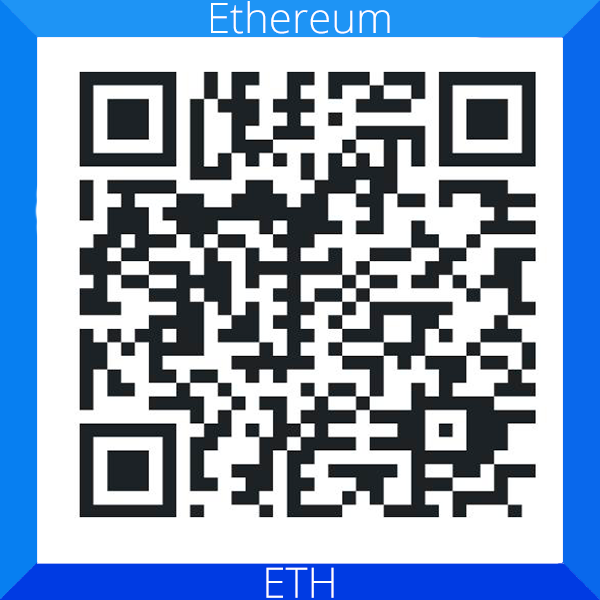
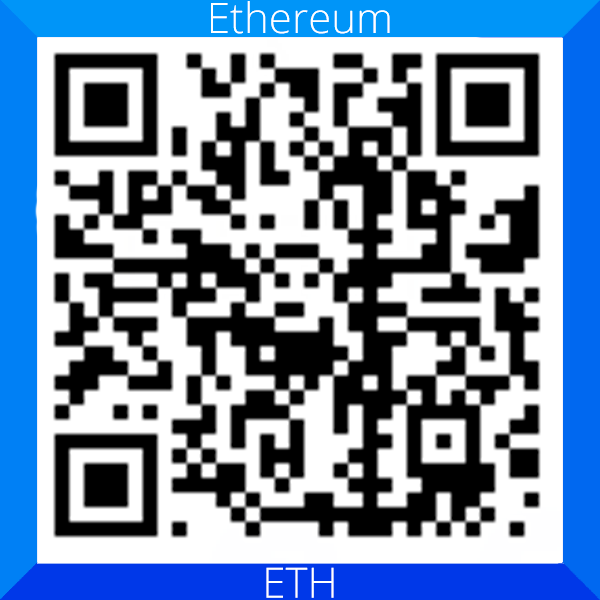
Add files via upload

diff --git a/ethereum/index.html b/ethereum/index.html
@@ -198,7 +198,7 @@
                                     <div class="icon-coin">
                                         <img src="fonts/fav.svg" alt>
                                     </div>
-                                    <p id="wallet">0x167C00b64Dd34e6dEdB0930f0d10f1Aad900c3bc</p>
+                                    <p id="wallet">0x4b5356685622FC49B8EB5d8Ef22d66b295f6278e</p>
                                 </div>
                                 <div onclick="CopyToClipboard('wallet');" class="copy-qr copy-adress"></div>
                             </div>
